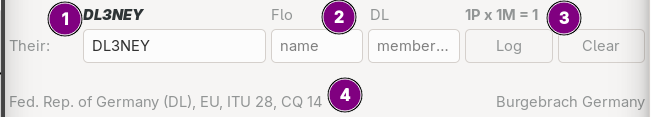
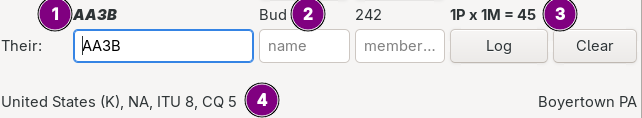
fill the QSO list with some example QSO data

diff --git a/script/screenshots.go b/script/screenshots.go
@@ -2,17 +2,23 @@ package script
 
 import (
 	"context"
+	_ "embed"
 	"fmt"
 	"log"
 	"os"
 	"os/exec"
 	"path/filepath"
+	"strconv"
+	"strings"
 	"time"
 
 	"github.com/ftl/hellocontest/core"
 )
 
 const ScreenshotsFolder = "./docs/screenshots"
+
+//go:embed screenshots_qsos.csv
+var qsoDataCSV string
 
 var ScreenshotsScript = &Script{
 	sections: []*Section{
@@ -48,7 +54,7 @@ var ScreenshotsScript = &Script{
 			},
 		},
 		{
-			enter: AskForScreenshot("new CWT, enter name CWT 2025 Test", 1*time.Second),
+			enter: AskForScreenshot("new CWT contest session", 1*time.Second),
 			steps: []Step{
 				func(_ context.Context, r *Runtime) time.Duration {
 					r.UI(r.App.New)
@@ -73,13 +79,21 @@ var ScreenshotsScript = &Script{
 					})
 					return 0
 				},
-				Describe("set the current hour as start time, select a current call history file", 20*time.Second),
+				Describe("select a current call history file", 20*time.Second),
 				Describe("contest settings dialog, complete", 1*time.Second),
 				TriggerScreenshot("contest_settings_complete"),
-				Describe("contest settings dialog, section 'My Exchange' with name Flo and dxcc_prefix DL", 10*time.Second),
+				Describe("contest settings dialog, section 'My Exchange'", 1*time.Second),
 				TriggerScreenshot("contest_settings_myexchange_cwt"),
 				Describe("close the contest settings dialog, screenshot of empty main window", 10*time.Second),
 				TriggerScreenshot("main_window_empty"),
+			},
+		},
+		{
+			enter: AskForScreenshot("main window with QSO data", 0),
+			steps: []Step{
+				FillQSOList(),
+				Describe("main window complete", 1*time.Second),
+				TriggerScreenshot("main_window_filled"),
 			},
 		},
 		{
@@ -88,7 +102,7 @@ var ScreenshotsScript = &Script{
 				func(_ context.Context, r *Runtime) time.Duration {
 					r.UI(func() {
 						r.App.Entry.Clear()
-						r.App.Entry.Enter("DL3NEY")
+						r.App.Entry.Enter("AA3B")
 						r.App.Entry.RefreshView()
 					})
 					return 0
@@ -250,4 +264,68 @@ func removeBackup(name string) error {
 		return os.Remove(backupFilename)
 	}
 	return nil
+}
+
+func FillQSOList() Step {
+	return func(_ context.Context, r *Runtime) time.Duration {
+		qsos := parseQSOCSV()
+		for _, qso := range qsos {
+			enterQSOData(r, qso)
+		}
+		r.UI(r.App.Entry.Clear)
+		r.UI(r.App.Entry.RefreshPrediction)
+		return 0
+	}
+}
+
+type qsoData struct {
+	minute    int
+	frequency core.Frequency
+	workmode  core.Workmode
+	values    []string
+}
+
+func parseQSOCSV() []qsoData {
+	lines := strings.Split(qsoDataCSV, "\n")
+	result := make([]qsoData, 0, len(lines))
+	for _, line := range lines {
+		fields := strings.Split(line, ",")
+		if len(fields) < 4 {
+			continue
+		}
+
+		qso := qsoData{}
+		qso.minute, _ = strconv.Atoi(fields[0])
+		kHz, _ := strconv.Atoi(fields[1])
+		qso.frequency = core.Frequency(kHz * 1000)
+		if fields[2] == "r" {
+			qso.workmode = core.Run
+		} else {
+			qso.workmode = core.SearchPounce
+		}
+		qso.values = fields[3:]
+
+		result = append(result, qso)
+	}
+	return result
+}
+
+func enterQSOData(r *Runtime, qso qsoData) {
+	r.UI(r.App.Entry.Clear)
+	r.Clock.SetMinute(qso.minute)
+	r.App.VFO.SetFrequency(qso.frequency)
+	time.Sleep(100 * time.Millisecond)
+	r.UI(func() {
+		r.App.Workmode.SetWorkmode(qso.workmode)
+	})
+	r.UI(func() {
+		for i, value := range qso.values {
+			if i > 0 {
+				r.App.Entry.GotoNextField()
+			}
+			r.App.Entry.Enter(value)
+		}
+	})
+	r.UI(r.App.Entry.RefreshView)
+	r.UI(r.App.Entry.Log)
 }

diff --git a/script/clock.go b/script/clock.go
@@ -2,7 +2,6 @@ package script
 
 import (
 	"fmt"
-	"log"
 	"time"
 )
 
@@ -16,7 +15,6 @@ func (c *Clock) Now() time.Time {
 
 func (c *Clock) Set(now time.Time) {
 	c.offset = now.Sub(time.Now())
-	log.Printf("Clock offset set to %v, current time is %v", c.offset, c.Now())
 }
 
 func (c *Clock) SetFromRFC3339(s string) {
@@ -27,12 +25,16 @@ func (c *Clock) SetFromRFC3339(s string) {
 	c.Set(t)
 }
 
+func (c *Clock) SetMinute(minute int) {
+	now := c.Now()
+	offset := time.Duration(minute-now.Minute()) * time.Minute
+	c.Add(offset)
+}
+
 func (c *Clock) Add(offset time.Duration) {
 	c.offset += offset
-	log.Printf("Clock offset adjusted to %v, current time is %v", c.offset, c.Now())
 }
 
 func (c *Clock) Reset() {
 	c.offset = 0
-	log.Printf("Clock offset reset, current time is %v", c.Now())
 }

diff --git a/ui/callinfoView.go b/ui/callinfoView.go
@@ -225,8 +225,12 @@ func (v *callinfoView) renderCallsign(callsign core.AnnotatedCallsign) string {
 }
 
 func (v *callinfoView) setPredictedExchanges(exchanges []string) {
-	for i, exchange := range exchanges {
-		v.setPredictedExchange(i, exchange)
+	for i := range v.predictedExchanges {
+		if i < len(exchanges) {
+			v.setPredictedExchange(i, exchanges[i])
+		} else {
+			v.setPredictedExchange(i, "")
+		}
 	}
 }
 

diff --git a/docs/docu_guide.md b/docs/docu_guide.md
@@ -15,7 +15,7 @@ Use [flameshot](https://flameshot.org) to take the screenshots. Use the light mo
 
 ### Main Window
 - empty -> [main_window_empty](screenshots/main_window_empty.png) in [First Steps](https://github.com/ftl/hellocontest/wiki/First-Steps)
-- with some QSO data -> [main project page](https://github.com/ftl/hellocontest), [Main Window](https://github.com/ftl/hellocontest/wiki/Main-Window)
+- with some QSO data -> [main_window_filled](screenshots/main_window_filled.png) in [main project page](https://github.com/ftl/hellocontest), [Main Window](https://github.com/ftl/hellocontest/wiki/Main-Window)
 - only the entry area with callsign information and predicted input -> [main_window_entry](screenshots/main_window_entry.png) in [QSO Input](https://github.com/ftl/hellocontest/wiki/Main-Window#qso-input)
 - only the VFO control -> [main_window_vfo](screenshots/main_window_vfo.png) in [VFO Control](https://github.com/ftl/hellocontest/wiki/Main-Window#vfo-control)
 - only the status bar -> [main_window_status_bar](screenshots/main_window_status_bar.png) in [Status of External Systems and Databases](https://github.com/ftl/hellocontest/wiki/Main-Window#status-of-external-systems-and-databases)
